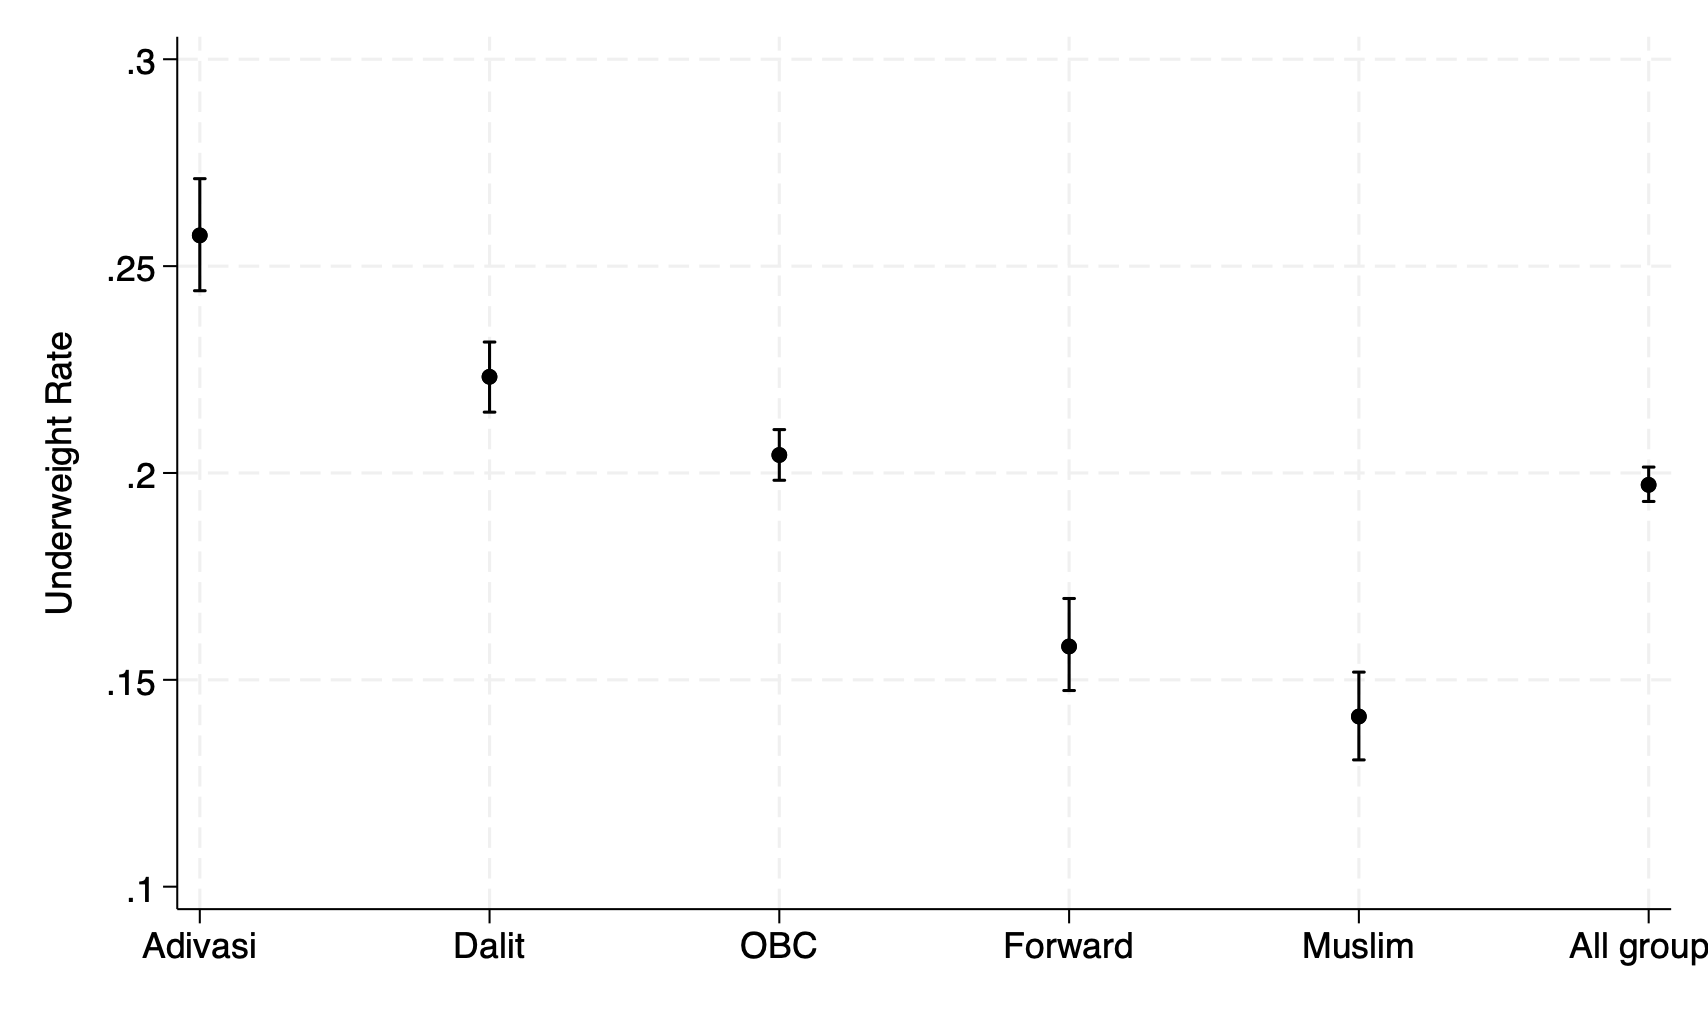
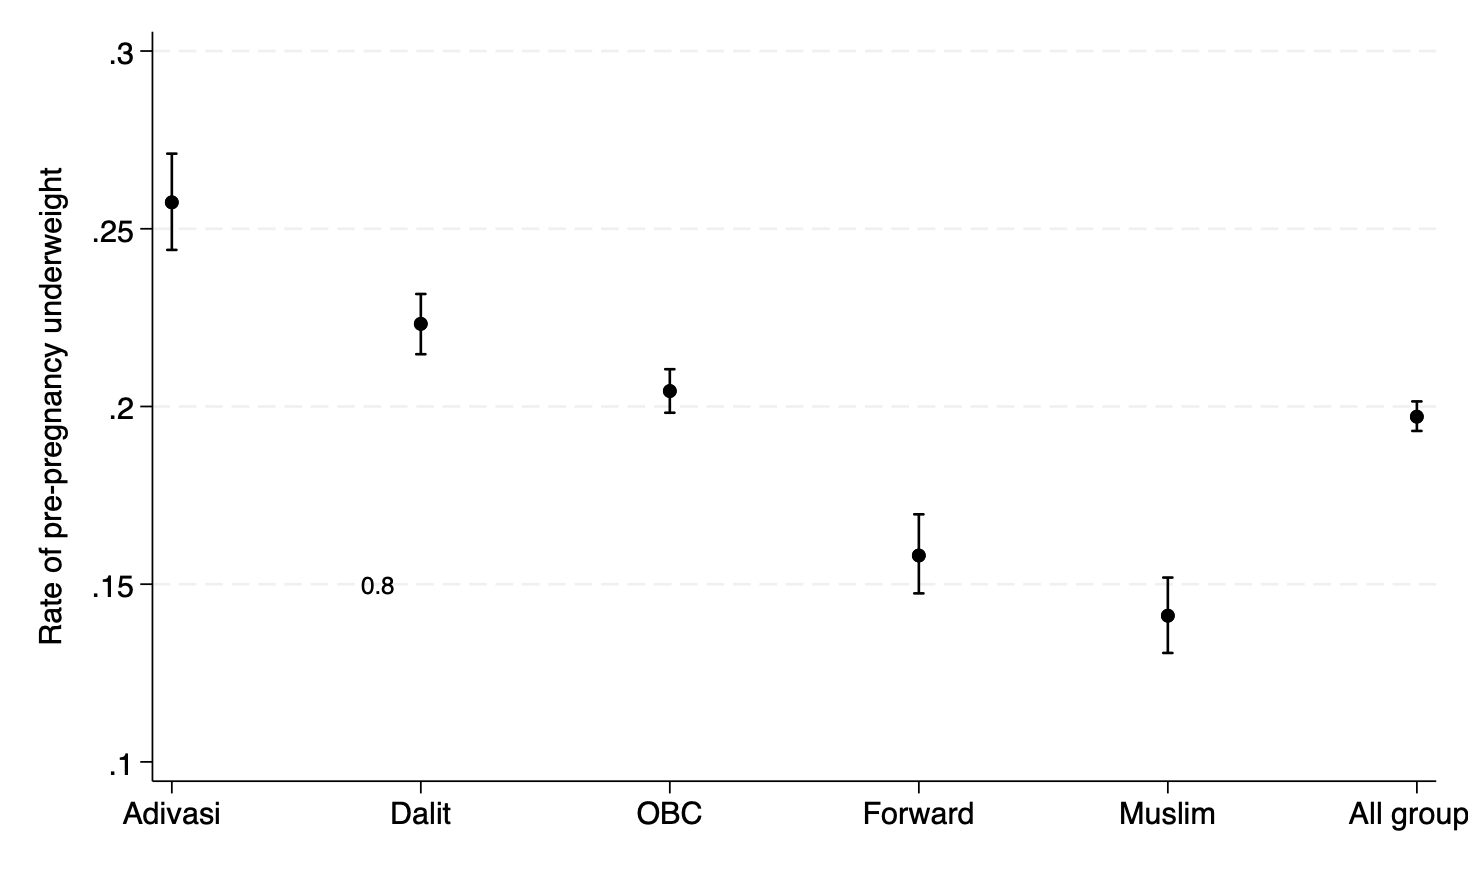
fixes

diff --git a/tables/predictor_regression.tex b/tables/predictor_regression.tex
@@ -6,73 +6,73 @@
 \midrule
 \textbf{Binary predictors of pregnancy and underweight}&                     &                     &                     &                     &                     &                     \\
 \addlinespace
-Uses modern contraception&     -0.0752\sym{***}&     -0.0727\sym{***}&     -0.0641\sym{***}&     -0.0782\sym{***}&     -0.0512\sym{***}&     -0.0671\sym{***}\\
+\hspace*{1em}Uses modern contraception&     -0.0752\sym{***}&     -0.0727\sym{***}&     -0.0641\sym{***}&     -0.0782\sym{***}&     -0.0512\sym{***}&     -0.0671\sym{***}\\
                     &   (0.00308)         &   (0.00191)         &   (0.00144)         &   (0.00259)         &   (0.00184)         &  (0.000907)         \\
 \addlinespace
-None or incomplete primary education&    -0.00853\sym{***}&     0.00111         &     0.00363\sym{***}&     0.00155         &   -0.000858         &     0.00157\sym{*}  \\
+\hspace*{1em}None or incomplete primary education&    -0.00853\sym{***}&     0.00111         &     0.00363\sym{***}&     0.00155         &   -0.000858         &     0.00157\sym{*}  \\
                     &   (0.00269)         &   (0.00178)         &   (0.00124)         &   (0.00273)         &   (0.00166)         &  (0.000808)         \\
 \addlinespace
-Rural resident      &      0.0123\sym{*}  &     0.00582\sym{***}&     0.00299\sym{*}  &     0.00560\sym{*}  &     0.00721\sym{***}&     0.00486\sym{***}\\
+\hspace*{1em}Rural resident      &      0.0123\sym{*}  &     0.00582\sym{***}&     0.00299\sym{*}  &     0.00560\sym{*}  &     0.00721\sym{***}&     0.00486\sym{***}\\
                     &   (0.00707)         &   (0.00221)         &   (0.00157)         &   (0.00305)         &   (0.00202)         &   (0.00101)         \\
 \addlinespace
-Has boy child       &     -0.0219\sym{***}&     -0.0160\sym{***}&     -0.0252\sym{***}&     -0.0132\sym{***}&     -0.0208\sym{***}&     -0.0206\sym{***}\\
+\hspace*{1em}Has boy child       &     -0.0219\sym{***}&     -0.0160\sym{***}&     -0.0252\sym{***}&     -0.0132\sym{***}&     -0.0208\sym{***}&     -0.0206\sym{***}\\
                     &   (0.00475)         &   (0.00273)         &   (0.00206)         &   (0.00427)         &   (0.00245)         &   (0.00128)         \\
 \addlinespace
 \textbf{Age categories}&                     &                     &                     &                     &                     &                     \\
 \addlinespace
-20–24               &     -0.0105         &     0.00457         &      0.0122         &      0.0168         &     0.00780         &     0.00856\sym{*}  \\
+\hspace*{1em}20–24               &     -0.0105         &     0.00457         &      0.0122         &      0.0168         &     0.00780         &     0.00856\sym{*}  \\
                     &    (0.0118)         &   (0.00964)         &   (0.00790)         &    (0.0120)         &    (0.0133)         &   (0.00467)         \\
 \addlinespace
-25–29               &     -0.0371\sym{***}&     -0.0327\sym{***}&     -0.0294\sym{***}&     -0.0244\sym{**} &     -0.0242\sym{*}  &     -0.0297\sym{***}\\
+\hspace*{1em}25–29               &     -0.0371\sym{***}&     -0.0327\sym{***}&     -0.0294\sym{***}&     -0.0244\sym{**} &     -0.0242\sym{*}  &     -0.0297\sym{***}\\
                     &    (0.0119)         &   (0.00970)         &   (0.00787)         &    (0.0119)         &    (0.0132)         &   (0.00465)         \\
 \addlinespace
-30–34               &     -0.0769\sym{***}&     -0.0696\sym{***}&     -0.0706\sym{***}&     -0.0748\sym{***}&     -0.0626\sym{***}&     -0.0709\sym{***}\\
+\hspace*{1em}30–34               &     -0.0769\sym{***}&     -0.0696\sym{***}&     -0.0706\sym{***}&     -0.0748\sym{***}&     -0.0626\sym{***}&     -0.0709\sym{***}\\
                     &    (0.0118)         &   (0.00964)         &   (0.00779)         &    (0.0118)         &    (0.0132)         &   (0.00463)         \\
 \addlinespace
 \textbf{Parity \& time since last live birth categories}&                     &                     &                     &                     &                     &                     \\
 \addlinespace
-1 birth, below 2y spacing&     -0.0919\sym{***}&     -0.0769\sym{***}&     -0.0986\sym{***}&      -0.145\sym{***}&      -0.110\sym{***}&      -0.101\sym{***}\\
+\hspace*{1em}1 birth, below 2y spacing&     -0.0919\sym{***}&     -0.0769\sym{***}&     -0.0986\sym{***}&      -0.145\sym{***}&      -0.110\sym{***}&      -0.101\sym{***}\\
                     &   (0.00935)         &   (0.00740)         &   (0.00575)         &    (0.0103)         &   (0.00868)         &   (0.00351)         \\
 \addlinespace
-1 birth, 2–3y spacing&     0.00887         &     -0.0339\sym{***}&     -0.0407\sym{***}&     -0.0866\sym{***}&     -0.0793\sym{***}&     -0.0483\sym{***}\\
+\hspace*{1em}1 birth, 2–3y spacing&     0.00887         &     -0.0339\sym{***}&     -0.0407\sym{***}&     -0.0866\sym{***}&     -0.0793\sym{***}&     -0.0483\sym{***}\\
                     &    (0.0161)         &    (0.0113)         &   (0.00869)         &    (0.0151)         &    (0.0110)         &   (0.00516)         \\
 \addlinespace
-1 birth, above 3y spacing&     -0.0524\sym{***}&     -0.0843\sym{***}&     -0.0847\sym{***}&     -0.0898\sym{***}&     -0.0982\sym{***}&     -0.0852\sym{***}\\
+\hspace*{1em}1 birth, above 3y spacing&     -0.0524\sym{***}&     -0.0843\sym{***}&     -0.0847\sym{***}&     -0.0898\sym{***}&     -0.0982\sym{***}&     -0.0852\sym{***}\\
                     &    (0.0114)         &   (0.00716)         &   (0.00536)         &    (0.0107)         &   (0.00787)         &   (0.00337)         \\
 \addlinespace
-2 births, below 2y spacing&      -0.101\sym{***}&      -0.109\sym{***}&      -0.123\sym{***}&      -0.155\sym{***}&      -0.130\sym{***}&      -0.122\sym{***}\\
+\hspace*{1em}2 births, below 2y spacing&      -0.101\sym{***}&      -0.109\sym{***}&      -0.123\sym{***}&      -0.155\sym{***}&      -0.130\sym{***}&      -0.122\sym{***}\\
                     &   (0.00904)         &   (0.00707)         &   (0.00536)         &    (0.0101)         &   (0.00811)         &   (0.00333)         \\
 \addlinespace
-2 births, 2–3y spacing&     -0.0603\sym{***}&     -0.0835\sym{***}&     -0.0975\sym{***}&     -0.0950\sym{***}&      -0.114\sym{***}&     -0.0924\sym{***}\\
+\hspace*{1em}2 births, 2–3y spacing&     -0.0603\sym{***}&     -0.0835\sym{***}&     -0.0975\sym{***}&     -0.0950\sym{***}&      -0.114\sym{***}&     -0.0924\sym{***}\\
                     &    (0.0110)         &   (0.00874)         &   (0.00615)         &    (0.0124)         &   (0.00898)         &   (0.00392)         \\
 \addlinespace
-2 births, above 3y spacing&     -0.0704\sym{***}&     -0.0953\sym{***}&     -0.0991\sym{***}&      -0.109\sym{***}&      -0.107\sym{***}&     -0.0977\sym{***}\\
+\hspace*{1em}2 births, above 3y spacing&     -0.0704\sym{***}&     -0.0953\sym{***}&     -0.0991\sym{***}&      -0.109\sym{***}&      -0.107\sym{***}&     -0.0977\sym{***}\\
                     &   (0.00850)         &   (0.00649)         &   (0.00494)         &   (0.00975)         &   (0.00753)         &   (0.00308)         \\
 \addlinespace
-3+ births, below 2y spacing&     -0.0770\sym{***}&     -0.0981\sym{***}&      -0.107\sym{***}&      -0.114\sym{***}&      -0.111\sym{***}&      -0.101\sym{***}\\
+\hspace*{1em}3+ births, below 2y spacing&     -0.0770\sym{***}&     -0.0981\sym{***}&      -0.107\sym{***}&      -0.114\sym{***}&      -0.111\sym{***}&      -0.101\sym{***}\\
                     &   (0.00914)         &   (0.00723)         &   (0.00565)         &    (0.0110)         &   (0.00898)         &   (0.00358)         \\
 \addlinespace
-3+ births, 2–3y spacing&     -0.0529\sym{***}&     -0.0731\sym{***}&     -0.0860\sym{***}&      -0.100\sym{***}&     -0.0994\sym{***}&     -0.0815\sym{***}\\
+\hspace*{1em}3+ births, 2–3y spacing&     -0.0529\sym{***}&     -0.0731\sym{***}&     -0.0860\sym{***}&      -0.100\sym{***}&     -0.0994\sym{***}&     -0.0815\sym{***}\\
                     &   (0.00994)         &   (0.00817)         &   (0.00641)         &    (0.0113)         &    (0.0101)         &   (0.00389)         \\
 \addlinespace
-3+ births, above 3y spacing&     -0.0700\sym{***}&     -0.0947\sym{***}&     -0.0988\sym{***}&      -0.121\sym{***}&      -0.104\sym{***}&     -0.0979\sym{***}\\
+\hspace*{1em}3+ births, above 3y spacing&     -0.0700\sym{***}&     -0.0947\sym{***}&     -0.0988\sym{***}&      -0.121\sym{***}&      -0.104\sym{***}&     -0.0979\sym{***}\\
                     &   (0.00828)         &   (0.00655)         &   (0.00491)         &   (0.00943)         &   (0.00756)         &   (0.00308)         \\
 \addlinespace
 \textbf{Wealth categories}&                     &                     &                     &                     &                     &                     \\
 \addlinespace
-2nd quartile        &    -0.00235         &    -0.00770\sym{***}&    -0.00659\sym{***}&    -0.00774\sym{**} &    -0.00191         &    -0.00566\sym{***}\\
+\hspace*{1em}2nd quartile        &    -0.00235         &    -0.00770\sym{***}&    -0.00659\sym{***}&    -0.00774\sym{**} &    -0.00191         &    -0.00566\sym{***}\\
                     &   (0.00262)         &   (0.00222)         &   (0.00180)         &   (0.00391)         &   (0.00309)         &   (0.00112)         \\
 \addlinespace
-3rd quartile        &     0.00293         &    -0.00584\sym{**} &    -0.00863\sym{***}&    -0.00146         &     0.00295         &    -0.00433\sym{***}\\
+\hspace*{1em}3rd quartile        &     0.00293         &    -0.00584\sym{**} &    -0.00863\sym{***}&    -0.00146         &     0.00295         &    -0.00433\sym{***}\\
                     &   (0.00353)         &   (0.00253)         &   (0.00183)         &   (0.00405)         &   (0.00304)         &   (0.00117)         \\
 \addlinespace
-4th quartile        &     0.00669         &    -0.00929\sym{***}&    -0.00613\sym{***}&    -0.00272         &     0.00466         &    -0.00386\sym{***}\\
+\hspace*{1em}4th quartile        &     0.00669         &    -0.00929\sym{***}&    -0.00613\sym{***}&    -0.00272         &     0.00466         &    -0.00386\sym{***}\\
                     &    (0.0108)         &   (0.00280)         &   (0.00214)         &   (0.00422)         &   (0.00319)         &   (0.00132)         \\
 \addlinespace
-Constant            &       0.223\sym{***}&       0.238\sym{***}&       0.245\sym{***}&       0.264\sym{***}&       0.220\sym{***}&       0.240\sym{***}\\
+\hspace*{1em}Constant            &       0.223\sym{***}&       0.238\sym{***}&       0.245\sym{***}&       0.264\sym{***}&       0.220\sym{***}&       0.240\sym{***}\\
                     &    (0.0142)         &    (0.0100)         &   (0.00796)         &    (0.0123)         &    (0.0136)         &   (0.00474)         \\
 \midrule
-Observations        &       91212         &       97955         &      170788         &       56419         &       80708         &      498842         \\
+N                   &      91,212         &      97,955         &     170,788         &      56,419         &      80,708         &     498,842         \\
 \bottomrule
 \multicolumn{7}{l}{\footnotesize Standard errors in parentheses}\\
 \multicolumn{7}{l}{\footnotesize \sym{*} \(p<0.1\), \sym{**} \(p<0.05\), \sym{***} \(p<0.01\)}\\
